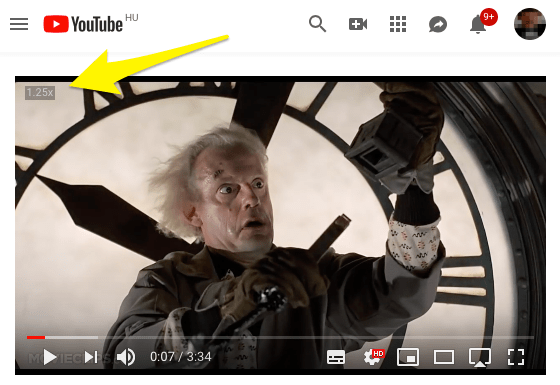
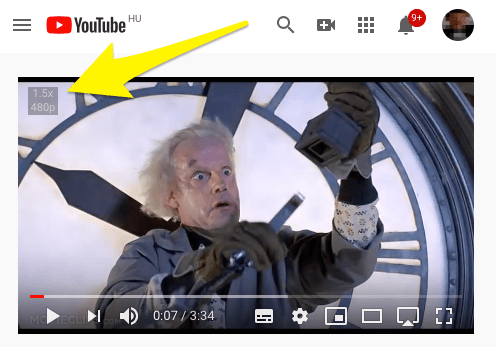
Implement YouTube quality control

diff --git a/index.html b/index.html
@@ -1,6 +1,6 @@
 <p>Drag this link into your bookmarks bar to install Video Speed Controller Bookmarklet</p>
 <p><a href="
 javascript:(function(){
-var%20speed%3D1.5%3Bif(document.activeElement){document.activeElement.blur()}function%20addEvent(element%2CeventName%2Ccallback){if(element.addEventListener){element.addEventListener(eventName%2Ccallback%2Cfalse)}else%20if(element.attachEvent){element.attachEvent(%22on%22%2BeventName%2Ccallback)}else{element%5B%22on%22%2BeventName%5D%3Dcallback}}function%20clamp(num%2Cmin%2Cmax){return%20num<%3Dmin%3Fmin%3Anum>%3Dmax%3Fmax%3Anum}addEvent(document%2C%22keypress%22%2Cfunction(e){var%20target%3De.target||e.srcElement%3Bif(/INPUT|TEXTAREA|SELECT|BUTTON/.test(target.nodeName))return%3Be%3De||window.event%3Bif(e.key%3D%3D%22a%22)speed%3D1%3Bif(e.key%3D%3D%22s%22){speed%3Dspeed<%3D.25%3F.05%3Aspeed-.25}if(e.key%3D%3D%22d%22){if(speed%3D%3D.05)speed%3D0%3Bspeed%2B%3D.25}speed%3Dclamp(speed%2C0%2C6)%3Bvar%20speedlabels%3Ddocument.getElementsByClassName(%22speedlabel%22)%3Bfor(var%20i%3D0%3Bi<speedlabels.length%3Bi%2B%2B){speedlabels%5Bi%5D.innerHTML%3Dspeed%2B%22x%22}})%3BsetInterval(function(){videospeed()}%2C500)%3Bfunction%20videospeed(){var%20style%3D%22\t<style>\t\t.speedlabel{\t\t\tposition%3Aabsolute%3B\t\t\tz-index%3A999%3B\t\t\twidth%3A30px%3B\t\t\tleft%3A10px%3B\t\t\ttop%3A10px%3B\t\t\ttext-align%3A%20center%3B\t\t\tcolor%3A%23ccc%3B\t\t\tbackground-color%3Argba(0%2C0%2C0%2C0.3)%3B\t\t}\t</style>\t%22%3Bvideos%3Ddocument.querySelectorAll(%22video%22)%3Bfor(var%20i%3D0%3Bi<videos.length%3Bi%2B%2B){if(videos%5Bi%5D%26%26videos%5Bi%5D.readyState>%3D2){videos%5Bi%5D.playbackRate%3Dspeed%3Bvideos%5Bi%5D.mozPreservesPitch%3Dvideos%5Bi%5D.webkitPreservesPitch%3Dvideos%5Bi%5D.preservePitch%3Dtrue}if(!videos%5Bi%5D.hasAttribute(%22speedlabel%22)){videos%5Bi%5D.setAttribute(%22speedlabel%22%2C%22true%22)%3Bvar%20speedlabel%3D'<div%20class%3D%22speedlabel%22>'%2Bspeed%2B%22x</div>%22%3Bvideos%5Bi%5D.insertAdjacentHTML(%22beforebegin%22%2Cspeedlabel%2Bstyle)}}}})()
+var%20speed%3D1.5%3Bvar%20player%3Ddocument.getElementById(%22movie_player%22)%3Bif(document.activeElement){document.activeElement.blur()}function%20addEvent(element%2CeventName%2Ccallback){if(element.addEventListener){element.addEventListener(eventName%2Ccallback%2Cfalse)}else%20if(element.attachEvent){element.attachEvent(%22on%22%2BeventName%2Ccallback)}else{element%5B%22on%22%2BeventName%5D%3Dcallback}}function%20clamp(num%2Cmin%2Cmax){return%20num<%3Dmin%3Fmin%3Anum>%3Dmax%3Fmax%3Anum}function%20YTQuality(q){if(!player)return%20false%3Bswitch(q){case%22q%22%3Aplayer.setPlaybackQualityRange(%22tiny%22)%3Bbreak%3Bcase%22w%22%3Aplayer.setPlaybackQualityRange(%22small%22)%3Bbreak%3Bcase%22e%22%3Aplayer.setPlaybackQualityRange(%22medium%22)%3Bbreak%3Bcase%22r%22%3Aplayer.setPlaybackQualityRange(%22large%22)%3Bbreak%3Bcase%22u%22%3Aplayer.setPlaybackQualityRange(%22hd720%22)%3Bbreak%3Bcase%22i%22%3Aplayer.setPlaybackQualityRange(%22hd1080%22)%3Bbreak%3Bcase%22o%22%3Aplayer.setPlaybackQualityRange(%22auto%22)%3Bbreak}switch(player.getPlaybackQuality()){case%22auto%22%3Areturn%22auto%22%3Bcase%22tiny%22%3Areturn%22144p%22%3Bcase%22small%22%3Areturn%22240p%22%3Bcase%22medium%22%3Areturn%22360p%22%3Bcase%22large%22%3Areturn%22480p%22%3Bcase%22hd720%22%3Areturn%22720p%22%3Bcase%22hd1080%22%3Areturn%221080p%22}}addEvent(document%2C%22keypress%22%2Cfunction(e){var%20target%3De.target||e.srcElement%3Bif(/INPUT|TEXTAREA|SELECT|BUTTON/.test(target.nodeName))return%3Be%3De||window.event%3Bvar%20ytq%3DYTQuality(e.key)%3Bif(e.key%3D%3D%22a%22)speed%3D1%3Bif(e.key%3D%3D%22s%22){speed%3Dspeed<%3D.25%3F.05%3Aspeed-.25}if(e.key%3D%3D%22d%22){if(speed%3D%3D.05)speed%3D0%3Bspeed%2B%3D.25}speed%3Dclamp(speed%2C0%2C6)%3Bvar%20speedlabels%3Ddocument.getElementsByClassName(%22speedlabel%22)%3Bfor(var%20i%3D0%3Bi<speedlabels.length%3Bi%2B%2B){speedlabels%5Bi%5D.innerHTML%3Dspeed%2B%22x%22%2B(ytq%3F%22<br>%22%2Bytq%3A%22%22)}})%3BsetInterval(function(){videospeed()}%2C500)%3Bfunction%20videospeed(){var%20style%3D%22\t<style>\t\t.speedlabel{\t\t\tposition%3Aabsolute%3B\t\t\tz-index%3A999%3B\t\t\twidth%3A30px%3B\t\t\tleft%3A10px%3B\t\t\ttop%3A10px%3B\t\t\ttext-align%3A%20center%3B\t\t\tcolor%3A%23ccc%3B\t\t\tbackground-color%3Argba(0%2C0%2C0%2C0.3)%3B\t\t}\t</style>\t%22%3Bvideos%3Ddocument.querySelectorAll(%22video%22)%3Bfor(var%20i%3D0%3Bi<videos.length%3Bi%2B%2B){if(videos%5Bi%5D%26%26videos%5Bi%5D.readyState>%3D2){videos%5Bi%5D.playbackRate%3Dspeed%3Bvideos%5Bi%5D.mozPreservesPitch%3Dvideos%5Bi%5D.webkitPreservesPitch%3Dvideos%5Bi%5D.preservePitch%3Dtrue}if(!videos%5Bi%5D.hasAttribute(%22speedlabel%22)){videos%5Bi%5D.setAttribute(%22speedlabel%22%2C%22true%22)%3Bvar%20ytq%3DYTQuality()%3Bvar%20speedlabel%3D'<div%20class%3D%22speedlabel%22>'%2Bspeed%2B%22x%22%2B(ytq%3F%22<br>%22%2Bytq%3A%22%22)%2B%22</div>%22%3Bvideos%5Bi%5D.insertAdjacentHTML(%22beforebegin%22%2Cspeedlabel%2Bstyle)}}}})()
 ">VIDEO-SPEED</a></p>
 <img style='border:5px solid gray; margin-top:50px;' src='install.gif'>

diff --git a/video-speed-controller.bookmarklet.js b/video-speed-controller.bookmarklet.js
@@ -1,2 +1,2 @@
 javascript:(function(){
-var%20speed%3D1.5%3Bif(document.activeElement){document.activeElement.blur()}function%20addEvent(element%2CeventName%2Ccallback){if(element.addEventListener){element.addEventListener(eventName%2Ccallback%2Cfalse)}else%20if(element.attachEvent){element.attachEvent(%22on%22%2BeventName%2Ccallback)}else{element%5B%22on%22%2BeventName%5D%3Dcallback}}function%20clamp(num%2Cmin%2Cmax){return%20num<%3Dmin%3Fmin%3Anum>%3Dmax%3Fmax%3Anum}addEvent(document%2C%22keypress%22%2Cfunction(e){var%20target%3De.target||e.srcElement%3Bif(/INPUT|TEXTAREA|SELECT|BUTTON/.test(target.nodeName))return%3Be%3De||window.event%3Bif(e.key%3D%3D%22a%22)speed%3D1%3Bif(e.key%3D%3D%22s%22){speed%3Dspeed<%3D.25%3F.05%3Aspeed-.25}if(e.key%3D%3D%22d%22){if(speed%3D%3D.05)speed%3D0%3Bspeed%2B%3D.25}speed%3Dclamp(speed%2C0%2C6)%3Bvar%20speedlabels%3Ddocument.getElementsByClassName(%22speedlabel%22)%3Bfor(var%20i%3D0%3Bi<speedlabels.length%3Bi%2B%2B){speedlabels%5Bi%5D.innerHTML%3Dspeed%2B%22x%22}})%3BsetInterval(function(){videospeed()}%2C500)%3Bfunction%20videospeed(){var%20style%3D%22\t<style>\t\t.speedlabel{\t\t\tposition%3Aabsolute%3B\t\t\tz-index%3A999%3B\t\t\twidth%3A30px%3B\t\t\tleft%3A10px%3B\t\t\ttop%3A10px%3B\t\t\ttext-align%3A%20center%3B\t\t\tcolor%3A%23ccc%3B\t\t\tbackground-color%3Argba(0%2C0%2C0%2C0.3)%3B\t\t}\t</style>\t%22%3Bvideos%3Ddocument.querySelectorAll(%22video%22)%3Bfor(var%20i%3D0%3Bi<videos.length%3Bi%2B%2B){if(videos%5Bi%5D%26%26videos%5Bi%5D.readyState>%3D2){videos%5Bi%5D.playbackRate%3Dspeed%3Bvideos%5Bi%5D.mozPreservesPitch%3Dvideos%5Bi%5D.webkitPreservesPitch%3Dvideos%5Bi%5D.preservePitch%3Dtrue}if(!videos%5Bi%5D.hasAttribute(%22speedlabel%22)){videos%5Bi%5D.setAttribute(%22speedlabel%22%2C%22true%22)%3Bvar%20speedlabel%3D'<div%20class%3D%22speedlabel%22>'%2Bspeed%2B%22x</div>%22%3Bvideos%5Bi%5D.insertAdjacentHTML(%22beforebegin%22%2Cspeedlabel%2Bstyle)}}}})()
+var%20speed%3D1.5%3Bvar%20player%3Ddocument.getElementById(%22movie_player%22)%3Bif(document.activeElement){document.activeElement.blur()}function%20addEvent(element%2CeventName%2Ccallback){if(element.addEventListener){element.addEventListener(eventName%2Ccallback%2Cfalse)}else%20if(element.attachEvent){element.attachEvent(%22on%22%2BeventName%2Ccallback)}else{element%5B%22on%22%2BeventName%5D%3Dcallback}}function%20clamp(num%2Cmin%2Cmax){return%20num<%3Dmin%3Fmin%3Anum>%3Dmax%3Fmax%3Anum}function%20YTQuality(q){if(!player)return%20false%3Bswitch(q){case%22q%22%3Aplayer.setPlaybackQualityRange(%22tiny%22)%3Bbreak%3Bcase%22w%22%3Aplayer.setPlaybackQualityRange(%22small%22)%3Bbreak%3Bcase%22e%22%3Aplayer.setPlaybackQualityRange(%22medium%22)%3Bbreak%3Bcase%22r%22%3Aplayer.setPlaybackQualityRange(%22large%22)%3Bbreak%3Bcase%22u%22%3Aplayer.setPlaybackQualityRange(%22hd720%22)%3Bbreak%3Bcase%22i%22%3Aplayer.setPlaybackQualityRange(%22hd1080%22)%3Bbreak%3Bcase%22o%22%3Aplayer.setPlaybackQualityRange(%22auto%22)%3Bbreak}switch(player.getPlaybackQuality()){case%22auto%22%3Areturn%22auto%22%3Bcase%22tiny%22%3Areturn%22144p%22%3Bcase%22small%22%3Areturn%22240p%22%3Bcase%22medium%22%3Areturn%22360p%22%3Bcase%22large%22%3Areturn%22480p%22%3Bcase%22hd720%22%3Areturn%22720p%22%3Bcase%22hd1080%22%3Areturn%221080p%22}}addEvent(document%2C%22keypress%22%2Cfunction(e){var%20target%3De.target||e.srcElement%3Bif(/INPUT|TEXTAREA|SELECT|BUTTON/.test(target.nodeName))return%3Be%3De||window.event%3Bvar%20ytq%3DYTQuality(e.key)%3Bif(e.key%3D%3D%22a%22)speed%3D1%3Bif(e.key%3D%3D%22s%22){speed%3Dspeed<%3D.25%3F.05%3Aspeed-.25}if(e.key%3D%3D%22d%22){if(speed%3D%3D.05)speed%3D0%3Bspeed%2B%3D.25}speed%3Dclamp(speed%2C0%2C6)%3Bvar%20speedlabels%3Ddocument.getElementsByClassName(%22speedlabel%22)%3Bfor(var%20i%3D0%3Bi<speedlabels.length%3Bi%2B%2B){speedlabels%5Bi%5D.innerHTML%3Dspeed%2B%22x%22%2B(ytq%3F%22<br>%22%2Bytq%3A%22%22)}})%3BsetInterval(function(){videospeed()}%2C500)%3Bfunction%20videospeed(){var%20style%3D%22\t<style>\t\t.speedlabel{\t\t\tposition%3Aabsolute%3B\t\t\tz-index%3A999%3B\t\t\twidth%3A30px%3B\t\t\tleft%3A10px%3B\t\t\ttop%3A10px%3B\t\t\ttext-align%3A%20center%3B\t\t\tcolor%3A%23ccc%3B\t\t\tbackground-color%3Argba(0%2C0%2C0%2C0.3)%3B\t\t}\t</style>\t%22%3Bvideos%3Ddocument.querySelectorAll(%22video%22)%3Bfor(var%20i%3D0%3Bi<videos.length%3Bi%2B%2B){if(videos%5Bi%5D%26%26videos%5Bi%5D.readyState>%3D2){videos%5Bi%5D.playbackRate%3Dspeed%3Bvideos%5Bi%5D.mozPreservesPitch%3Dvideos%5Bi%5D.webkitPreservesPitch%3Dvideos%5Bi%5D.preservePitch%3Dtrue}if(!videos%5Bi%5D.hasAttribute(%22speedlabel%22)){videos%5Bi%5D.setAttribute(%22speedlabel%22%2C%22true%22)%3Bvar%20ytq%3DYTQuality()%3Bvar%20speedlabel%3D'<div%20class%3D%22speedlabel%22>'%2Bspeed%2B%22x%22%2B(ytq%3F%22<br>%22%2Bytq%3A%22%22)%2B%22</div>%22%3Bvideos%5Bi%5D.insertAdjacentHTML(%22beforebegin%22%2Cspeedlabel%2Bstyle)}}}})()

diff --git a/video-speed-controller.js b/video-speed-controller.js
@@ -12,6 +12,7 @@
 
 // Initial speed
 var speed = 1.5;
+var player = document.getElementById('movie_player');
 
 // Remove focus from inputs
 if (document.activeElement) {
@@ -32,6 +33,33 @@ function clamp(num, min, max) {
 	return num <= min ? min : num >= max ? max : num;
 }
 
+function YTQuality(q){
+	
+	//var quality_list = player.getAvailableQualityLevels();
+	
+	if( !player ) return false;
+	
+	switch(q){
+		case "q": player.setPlaybackQualityRange("tiny"); break;
+		case "w": player.setPlaybackQualityRange("small"); break;
+		case "e": player.setPlaybackQualityRange("medium"); break;
+		case "r": player.setPlaybackQualityRange("large"); break;
+		case "u": player.setPlaybackQualityRange("hd720"); break;
+		case "i": player.setPlaybackQualityRange("hd1080"); break;
+		case "o": player.setPlaybackQualityRange("auto"); break;
+	}
+
+	switch(player.getPlaybackQuality()){
+		case "auto": 	return "auto";
+		case "tiny": 	return "144p";
+		case "small": 	return "240p";
+		case "medium": return "360p";
+		case "large": 	return "480p";
+		case "hd720": 	return "720p";
+		case "hd1080": return "1080p";
+	}
+}
+
 addEvent(document, "keypress", function (e) {
 
 	var target = e.target || e.srcElement;
@@ -39,23 +67,29 @@ addEvent(document, "keypress", function (e) {
 
 	e = e || window.event;
 
-	//keys
+	/*** YouTube Video Quality change keyboard shortcut ***/
+	var ytq = YTQuality(e.key);
+
+	/*** HTML5 video speed change keyboard shortcuts ***/
+
+	// reset speed
 	if(e.key == 'a') speed = 1;
+	// decrease
 	if(e.key == 's') {
 		speed = speed <= 0.25 ? 0.05 : speed - 0.25;
 	}
+	// increase
 	if(e.key == 'd'){
 		if(speed == 0.05) speed = 0;
 		speed += 0.25;
-	} 
+	}
 
 	speed = clamp(speed, 0, 6);
-
 
 	var speedlabels = document.getElementsByClassName("speedlabel");
 
 	for(var i = 0; i < speedlabels.length; i++) {
-		speedlabels[i].innerHTML = speed + "x";
+		speedlabels[i].innerHTML = speed + "x" + (ytq?"<br>"+ytq:"");
 	}
 });
 
@@ -98,7 +132,9 @@ function videospeed() {
 
 			videos[i].setAttribute("speedlabel","true");
 
-			var speedlabel  = '<div class="speedlabel">' + speed + 'x</div>';
+			var ytq = YTQuality();
+
+			var speedlabel  = '<div class="speedlabel">' + speed + 'x' + (ytq?"<br>"+ytq:"") + '</div>';
 
 			videos[i].insertAdjacentHTML('beforebegin', speedlabel + style);
 		}

diff --git a/README.md b/README.md
@@ -1,7 +1,7 @@
 Video Speed Controller Bookmarklet
 ----------------------------------
 
-Control HTML5 video speed with your keyboard.
+Control any HTML5 video speed with your keyboard. (and quality settings only on YouTube)
 
 Usage: ASD
 
@@ -12,6 +12,16 @@ Usage: ASD
 With this bookmarklet, you can control videos on YouTube, Vimeo, Netflix and every other sites that use HTML5 video. It works in every popular browser like Chrome, Firefox or Safari!
 
 ![screenshot](screenshot.png)
+
+You can also control YouTube playback quality with your keyboard.
+
+- 144p: `q`
+- 240p: `w`
+- 360p: `e`
+- 480p: `r`
+- 720p: `u`
+- 1080p: `i`
+- auto: `o`
 
 Installation
 ============
